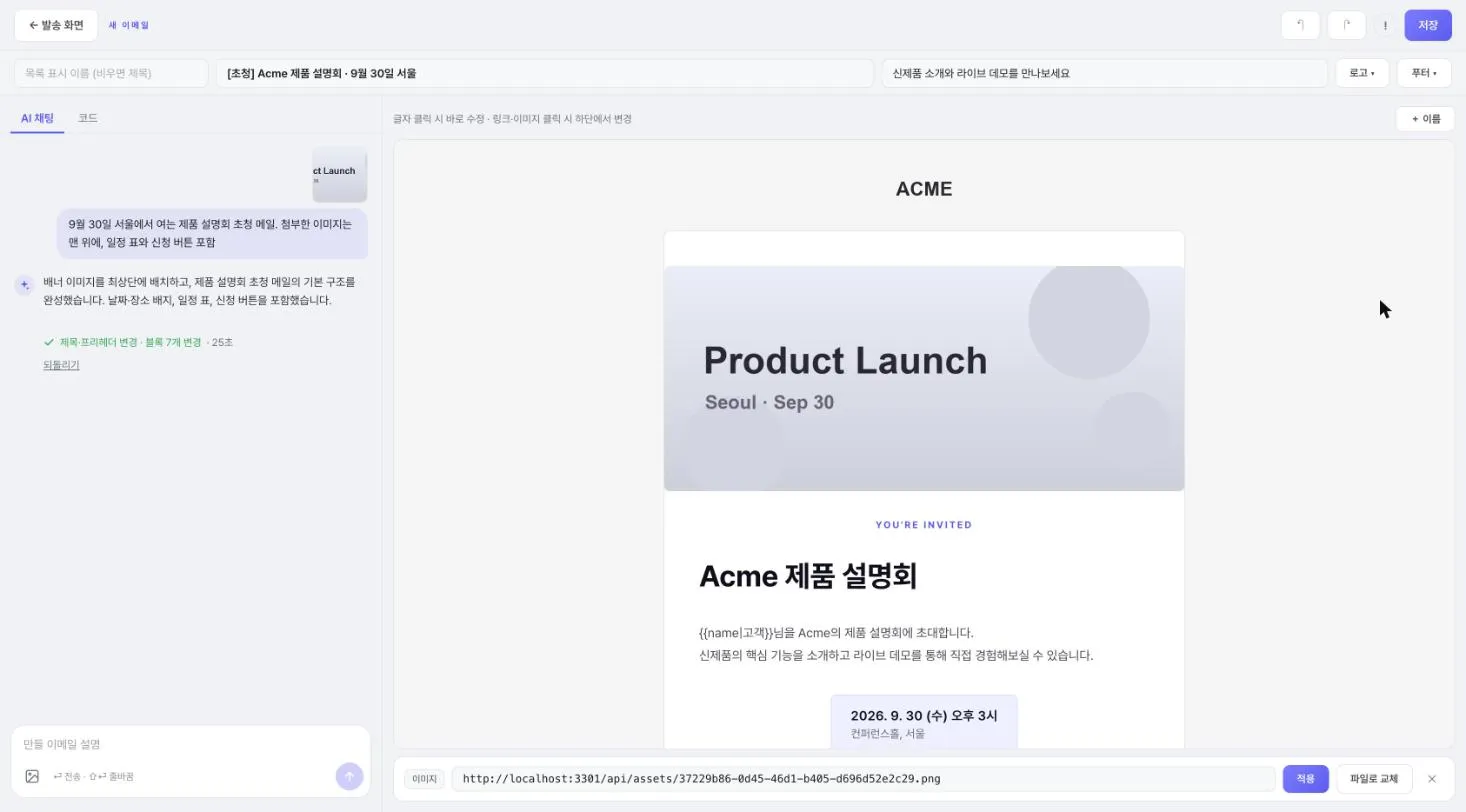
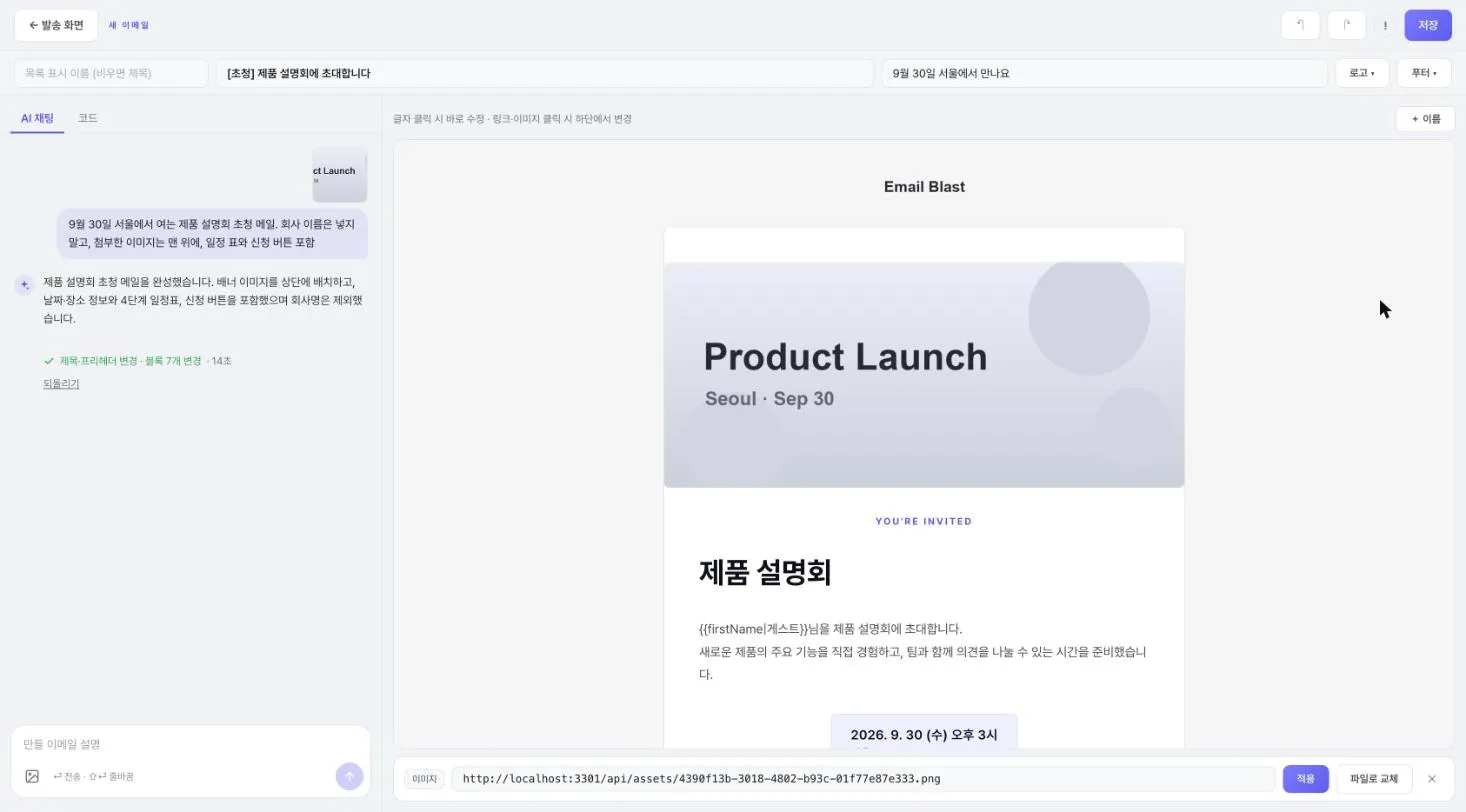
brand: the app is "Email Blast"; no company name in the tool UI
- Top bar, login title and page title are always "Email Blast"
- COMPANY → SENDER_NAME (name recipients see: From name, unsubscribe page, logo alt), default "Email Blast";
  the init wizard asks for that instead of a company name; operator display name defaults to "Operator"
- Remove the remaining "Acme" placeholders (template, wizard tests, docs, sample CSV)
- Remove the stale init-wizard design spec
- Guide text and 12 screenshots retaken with the new defaults

diff --git a/src/lib/guide-content.ts b/src/lib/guide-content.ts
@@ -8,12 +8,12 @@ export const GUIDE_SECTIONS: GuideSection[] = [
   {
     id: "s1",
     title: "처음 설정",
-    html: "<p>브랜드 이메일을 HTML 없이 만들어 여러 사람에게 한 번에 보내고, 결과를 확인하는 도구입니다. 이 문서는 앱 안 <span class=\"ui\">(!)</span> 버튼과 <code>/guide</code> 페이지의 원본입니다(<code>npm run guide</code>로 앱에 반영).</p><p>설치와 초기 설정은 관리자가 한 번만 합니다. 필요한 것은 세 가지입니다.</p><div class='tableWrap'><table><thead><tr><th>필요한 것</th><th>이유</th></tr></thead><tbody><tr><td>Resend 계정</td><td>모든 메일이 Resend로 나갑니다</td></tr><tr><td>내 도메인</td><td>Resend는 인증한 도메인 주소로만 보냅니다. <code>gmail.com</code> 같은 주소로는 보낼 수 없습니다</td></tr><tr><td>Node.js 18.17 이상</td><td>앱 실행</td></tr></tbody></table></div><p class=\"step\"><span class=\"n\">1</span><span>저장소를 받고 의존성을 설치합니다.</span></p><pre><code>npm install</code></pre><p class=\"step\"><span class=\"n\">2</span><span>설정 마법사를 실행합니다. 질문에 답하면 <code>src/brand.config.ts</code>(회사명·도메인·색 등 공개 설정)와 <code>.env.local</code>(비밀값)이 만들어집니다.</span></p><pre><code>npm run init</code></pre><p>마법사는 회사명, 로그인 방식(비밀번호 / Google), 화면 색(브라우저에서 고름), Claude API 키(선택), 발송 설정(발신 도메인·Resend 키·답장 주소·법인명·우편주소)을 묻습니다. 나중에 두 파일을 직접 고쳐도 됩니다.</p><p class=\"step\"><span class=\"n\">3</span><span>실행합니다.</span></p><pre><code>npm run dev      # 개발: http://localhost:3001\nnpm run build &amp;&amp; npm start   # 운영</code></pre><p>로그인 방식은 두 가지 중 하나입니다.</p><ul><li>비밀번호 — 비밀번호 하나로 들어갑니다. 들어온 사람은 모두 운영자 한 명으로 기록되며 관리자 권한을 가집니다.</li><li>Google — 지정한 Google Workspace 도메인 계정만 들어옵니다. 관리자는 <code>.env.local</code>의 <code>ADMIN_EMAILS</code> 또는 설정 화면에서 지정합니다.</li></ul><figure><a href=\"/guide/g-01-login.webp\" target=\"_blank\" rel=\"noreferrer\" title=\"원본 크기로 보기\"><img src=\"/guide/g-01-login.webp\" alt=\"\" loading=\"lazy\" /></a></figure><blockquote><span class=\"ui\">주의</span> — 예약 발송은 앱 서버 안에서 실행됩니다. <mark>서버가 꺼져 있던 시각의 예약은 실행되지 않습니다.</mark> 운영 서버는 항상 켜 두고, 재시작·점검 전에는 예약 발송을 확인합니다.</blockquote>",
+    html: "<p>Email Blast는 이메일을 HTML 없이 만들고, 여러 사람에게 한 번에 보내고, 결과를 확인하는 도구입니다. 이 문서는 앱 안 <span class=\"ui\">(!)</span> 버튼과 <code>/guide</code> 페이지의 원본입니다(<code>npm run guide</code>로 앱에 반영).</p><p>설치와 초기 설정은 관리자가 한 번만 합니다. 필요한 것은 세 가지입니다.</p><div class='tableWrap'><table><thead><tr><th>필요한 것</th><th>이유</th></tr></thead><tbody><tr><td>Resend 계정</td><td>모든 메일이 Resend로 나갑니다</td></tr><tr><td>내 도메인</td><td>Resend는 인증한 도메인 주소로만 보냅니다. <code>gmail.com</code> 같은 주소로는 보낼 수 없습니다</td></tr><tr><td>Node.js 18.17 이상</td><td>앱 실행</td></tr></tbody></table></div><p class=\"step\"><span class=\"n\">1</span><span>저장소를 받고 의존성을 설치합니다.</span></p><pre><code>npm install</code></pre><p class=\"step\"><span class=\"n\">2</span><span>설정 마법사를 실행합니다. 질문에 답하면 <code>src/brand.config.ts</code>(발신 이름·도메인·색 등 공개 설정)와 <code>.env.local</code>(비밀값)이 만들어집니다.</span></p><pre><code>npm run init</code></pre><p>마법사는 받는 사람에게 보일 발신 이름, 로그인 방식(비밀번호 / Google), 화면 색(브라우저에서 고름), Claude API 키(선택), 발송 설정(발신 도메인·Resend 키·답장 주소·법인명·우편주소)을 묻습니다. 나중에 두 파일을 직접 고쳐도 됩니다.</p><p class=\"step\"><span class=\"n\">3</span><span>실행합니다.</span></p><pre><code>npm run dev      # 개발: http://localhost:3001\nnpm run build &amp;&amp; npm start   # 운영</code></pre><p>로그인 방식은 두 가지 중 하나입니다.</p><ul><li>비밀번호 — 비밀번호 하나로 들어갑니다. 들어온 사람은 모두 운영자 한 명으로 기록되며 관리자 권한을 가집니다.</li><li>Google — 지정한 Google Workspace 도메인 계정만 들어옵니다. 관리자는 <code>.env.local</code>의 <code>ADMIN_EMAILS</code> 또는 설정 화면에서 지정합니다.</li></ul><figure><a href=\"/guide/g-01-login.webp\" target=\"_blank\" rel=\"noreferrer\" title=\"원본 크기로 보기\"><img src=\"/guide/g-01-login.webp\" alt=\"\" loading=\"lazy\" /></a></figure><blockquote><span class=\"ui\">주의</span> — 예약 발송은 앱 서버 안에서 실행됩니다. <mark>서버가 꺼져 있던 시각의 예약은 실행되지 않습니다.</mark> 운영 서버는 항상 켜 두고, 재시작·점검 전에는 예약 발송을 확인합니다.</blockquote>",
   },
   {
     id: "s2",
     title: "Resend 연결",
-    html: "<p class=\"step\"><span class=\"n\">1</span><span>resend.com에 가입하고 <span class=\"ui\">API Keys</span> → <span class=\"ui\">Create API Key</span>에서 Full access 키를 만듭니다.</span></p><p class=\"step\"><span class=\"n\">2</span><span><span class=\"ui\">Domains</span> → <span class=\"ui\">Add Domain</span>에서 발신 도메인을 추가합니다. <code>send.회사도메인</code> 같은 하위 도메인을 권장합니다. 화면에 나온 DNS 레코드(SPF·DKIM)를 도메인 DNS에 넣고 상태가 Verified가 될 때까지 기다립니다.</span></p><p class=\"step\"><span class=\"n\">3</span><span><code>.env.local</code>에 키를 넣고 앱을 다시 시작합니다.</span></p><pre><code>RESEND_EMAIL_TRACKING_API_KEY=re_xxxxxxxx</code></pre><p class=\"step\"><span class=\"n\">4</span><span>(선택) 열람·클릭·반송을 기록하려면 Resend <span class=\"ui\">Webhooks</span>에 <code>https://앱주소/api/webhooks/resend</code>를 등록하고, 서명 비밀값을 <code>.env.local</code>의 <code>RESEND_WEBHOOK_SECRET</code>에 넣습니다. 반송·스팸 신고 주소는 자동으로 수신거부 목록에 들어갑니다.</span></p><p><mark>도메인 인증 없이 보내면 대부분 스팸함으로 가거나 거부됩니다.</mark></p>",
+    html: "<p class=\"step\"><span class=\"n\">1</span><span>resend.com에 가입하고 <span class=\"ui\">API Keys</span> → <span class=\"ui\">Create API Key</span>에서 Full access 키를 만듭니다.</span></p><p class=\"step\"><span class=\"n\">2</span><span><span class=\"ui\">Domains</span> → <span class=\"ui\">Add Domain</span>에서 발신 도메인을 추가합니다. <code>send.내도메인.com</code> 같은 하위 도메인을 권장합니다. 화면에 나온 DNS 레코드(SPF·DKIM)를 도메인 DNS에 넣고 상태가 Verified가 될 때까지 기다립니다.</span></p><p class=\"step\"><span class=\"n\">3</span><span><code>.env.local</code>에 키를 넣고 앱을 다시 시작합니다.</span></p><pre><code>RESEND_EMAIL_TRACKING_API_KEY=re_xxxxxxxx</code></pre><p class=\"step\"><span class=\"n\">4</span><span>(선택) 열람·클릭·반송을 기록하려면 Resend <span class=\"ui\">Webhooks</span>에 <code>https://앱주소/api/webhooks/resend</code>를 등록하고, 서명 비밀값을 <code>.env.local</code>의 <code>RESEND_WEBHOOK_SECRET</code>에 넣습니다. 반송·스팸 신고 주소는 자동으로 수신거부 목록에 들어갑니다.</span></p><p><mark>도메인 인증 없이 보내면 대부분 스팸함으로 가거나 거부됩니다.</mark></p>",
   },
   {
     id: "s3",
@@ -48,7 +48,7 @@ export const GUIDE_SECTIONS: GuideSection[] = [
   {
     id: "s9",
     title: "발신 옵션",
-    html: "<ul><li><span class=\"ui\">공용 발신자로</span> — 등록된 회사 주소로 보냅니다. <span class=\"ui\">변경</span>으로 고르고, 추가·삭제는 관리자가 설정에서 합니다.</li><li><span class=\"ui\">내 계정으로</span> — 내 회사 주소로 보냅니다(Google 로그인 방식에서만).</li><li><span class=\"ui\">답장 받을 주소</span> — 비우면 발신 주소로 답장이 갑니다.</li><li><span class=\"ui\">광고성 메일</span> — 체크하면 제목 앞에 <code>(광고)</code>가 붙고, 본문에 수신거부 링크가 없으면 맨 아래에 수신거부 문구가 자동으로 붙습니다.</li></ul>",
+    html: "<ul><li><span class=\"ui\">공용 발신자로</span> — 등록된 공용 발신 주소로 보냅니다. <span class=\"ui\">변경</span>으로 고르고, 추가·삭제는 관리자가 설정에서 합니다.</li><li><span class=\"ui\">내 계정으로</span> — 내 로그인 주소로 보냅니다(Google 로그인 방식에서만).</li><li><span class=\"ui\">답장 받을 주소</span> — 비우면 발신 주소로 답장이 갑니다.</li><li><span class=\"ui\">광고성 메일</span> — 체크하면 제목 앞에 <code>(광고)</code>가 붙고, 본문에 수신거부 링크가 없으면 맨 아래에 수신거부 문구가 자동으로 붙습니다.</li></ul>",
   },
   {
     id: "s10",

diff --git a/scripts/init/brand.config.template.ts b/scripts/init/brand.config.template.ts
@@ -17,8 +17,8 @@
  */
 
 // ── Brand baseline values (change in one place; propagates to copy and senders) ── @init:identity
-const COMPANY      = "Acme";                // @init  company/service display name
-const LEGAL_NAME   = "Acme Inc.";           // @init  legal sender name (compliance footer)
+const SENDER_NAME  = "Email Blast";         // @init  name recipients see (From display name, unsubscribe page, logo alt)
+const LEGAL_NAME   = "Email Blast";         // @init  legal sender name (compliance footer)
 // Domains are fixed as pure constants (client renders → env dependence causes hydration mismatch).
 const LOGIN_DOMAIN  = "example.com";        // @init  Workspace domain allowed for Google login (for google mode)
 const SENDER_DOMAIN = "send.example.com";   // @init  allowed sending (From) domain (★core of send blocking)
@@ -30,7 +30,7 @@ const ASSET_BASE = "https://cdn.example.com/assets";
 // ── Auth & operator identity ────────────────────────────────────────────────
 const AUTH_MODE              = "password";            // @init  ("password" | "google")
 const OPERATOR_EMAIL         = "you@example.com";    // @init  password-mode admin identity
-const OPERATOR_NAME          = "Acme";               // @init  operator display name
+const OPERATOR_NAME          = "Operator";           // @init  operator display name
 const REPLY_TO_DEFAULT       = "inquiry@example.com"; // @init
 const POSTAL_ADDRESS_DEFAULT = "";                   // @init  CAN-SPAM postal address
 const CONTACT_EMAIL_DEFAULT  = "inquiry@example.com"; // @init
@@ -63,10 +63,10 @@ export type BrandLogo = { id: string; label: string; url: string; width: number 
 export const brand = {
   // ── Identity ────────────────────────────────────────────────────────────
   identity: {
-    companyName: COMPANY,
+    companyName: SENDER_NAME, // sender organization as recipients see it (the app itself is "Email Blast")
     legalName: LEGAL_NAME,
     appName: "Email Blast",
-    appTitle: `${COMPANY} Email Blast`,
+    appTitle: "Email Blast",
     appDescription: "Email blast tool",
     websiteUrl: WEBSITE_URL,
     /** App public base URL (used in the send loop, e.g. unsubscribe links). env(APP_BASE_URL) override. */
@@ -94,7 +94,7 @@ export const brand = {
     /** Built-in sender (always present, cannot be deleted). Operator additions live in data/from.json.
      *  ⚠ At least 1 required (FROM_DEFAULT references [0]). Keep it matching senderDomain. */
     builtinFrom: [
-      { value: `${COMPANY} <hello@${SENDER_DOMAIN}>`, label: COMPANY, builtin: true },
+      { value: `${SENDER_NAME} <hello@${SENDER_DOMAIN}>`, label: SENDER_NAME, builtin: true },
     ] as BrandFromOption[],
     /** Default Reply-To. This value is allowed even outside senderDomain (e.g. gmail) (resolveReplyTo). */
     replyToDefault: REPLY_TO_DEFAULT,
@@ -131,9 +131,9 @@ export const brand = {
     },
     mono: "Menlo,'SF Mono',Consolas,'Liberation Mono',monospace",
     /** Header (top) default logo — used when spec.logo is unset. Replace with your own logo's public URL. */
-    headerLogo: { url: `${ASSET_BASE}/header-logo.png`, alt: COMPANY, width: 130 },
+    headerLogo: { url: `${ASSET_BASE}/header-logo.png`, alt: SENDER_NAME, width: 130 },
     /** Footer (bottom) logo + click link. */
-    footerLogo: { url: `${ASSET_BASE}/footer-logo.png`, alt: COMPANY, link: WEBSITE_URL, width: 100, height: 16 },
+    footerLogo: { url: `${ASSET_BASE}/footer-logo.png`, alt: SENDER_NAME, link: WEBSITE_URL, width: 100, height: 16 },
     /** Footer social icon images. */
     socialIcons: {
       x: `${ASSET_BASE}/x-logo.png`,
@@ -170,12 +170,12 @@ export const brand = {
 
   // ── Header logo registry (built-in list in lib/logos.ts) ──────────────────────
   logos: [
-    { id: "primary", label: COMPANY, url: `${ASSET_BASE}/header-logo.png`, width: 130 },
+    { id: "primary", label: SENDER_NAME, url: `${ASSET_BASE}/header-logo.png`, width: 130 },
   ] as BrandLogo[],
 
   // ── Template defaults ───────────────────────────────────────────────────────
   templates: {
-    defaultSubject: `[알림] ${COMPANY}`,
+    defaultSubject: "[알림]",
   },
 
   // ── Scheduled sends ─────────────────────────────────────────────────────────
@@ -196,17 +196,17 @@ export const brand = {
   // ── App UI ──────────────────────────────────────────────────────────────
   ui: {
     /** Top header wordmark. */
-    headerBrand: COMPANY,
+    headerBrand: "Email Blast",
     /** Wordmark at the bottom of the public unsubscribe/resubscribe page. */
-    footerWordmark: COMPANY,
+    footerWordmark: SENDER_NAME,
     /** App console (web UI) accent color — app/layout.tsx injects it as a :root CSS variable.
      *  Decoupled from email colors: APP_ACCENT* drives the UI; EMAIL_* drives email bodies. */
     appAccent: APP_ACCENT,             // → --brand / --ring
     appAccentDeep: APP_ACCENT_DEEP,    // → --brand-deep
     appAccentBright: APP_ACCENT_BRIGHT,// → --brand-mint (lighter end of the CTA gradient)
     login: {
-      title: `${COMPANY} Email Blast`,
-      subtitle: `${COMPANY} 계정으로 로그인하세요.`,
+      title: "Email Blast",
+      subtitle: "Google 계정으로 로그인하세요.",
       /** Login screen copy for password mode. */
       passwordSubtitle: `접근하려면 비밀번호를 입력하세요.`,
       domainNotice: `@${LOGIN_DOMAIN} 계정만 접근할 수 있습니다.`,

diff --git a/src/components/AdminSettings.tsx b/src/components/AdminSettings.tsx
@@ -274,7 +274,7 @@ export default function AdminSettings({
                 <div className="grid grid-cols-2 gap-2">
                   <div>
                     <label className="block text-[10px] text-muted mb-0.5">이름 (수신자가 확인 가능)</label>
-                    <input className="input py-1.5 text-[12px]" value={displayName} onChange={(e) => setDisplayName(e.target.value)} placeholder="예: Acme Events" />
+                    <input className="input py-1.5 text-[12px]" value={displayName} onChange={(e) => setDisplayName(e.target.value)} placeholder="예: 이벤트팀" />
                   </div>
                   <div>
                     <label className="block text-[10px] text-muted mb-0.5">이메일 주소</label>

diff --git a/src/components/RecipientInput.tsx b/src/components/RecipientInput.tsx
@@ -8,7 +8,7 @@ const DEFAULT_PLACEHOLDER =
   "예시)\n홍길동 hong@a.com\n홍길동, hong@a.com\n홍길동|hong@a.com\n홍길동 <hong@a.com>";
 
 function downloadSampleCsv() {
-  const csv = "email,name,company,title\nhong@example.com,홍길동,Acme,매니저\njane@example.com,Jane Doe,Acme,Director\n";
+  const csv = "email,name,company,title\nhong@example.com,홍길동,Example Co,매니저\njane@example.com,Jane Doe,Example Co,Director\n";
   const blob = new Blob(["" + csv], { type: "text/csv;charset=utf-8" }); // BOM: Excel Korean compatibility
   const u = URL.createObjectURL(blob);
   const a = document.createElement("a");

diff --git a/src/app/page.tsx b/src/app/page.tsx
@@ -79,8 +79,6 @@ export default function HomePage() {
             aria-hidden
           />
           <span className="font-extrabold tracking-tight text-brand text-[15px]">{brand.ui.headerBrand}</span>
-          <span className="w-px h-4 bg-border shrink-0" aria-hidden />
-          <span className="text-muted text-sm font-medium truncate">{brand.identity.appName}</span>
         </div>
         <div className="flex items-center gap-2 shrink-0">
           <button onClick={() => openSettings("history")} className="btn-ghost text-[13px] py-1.5">발송 이력</button>

diff --git a/src/lib/config.ts b/src/lib/config.ts
@@ -9,7 +9,7 @@
 import { brand } from "../brand.config";
 
 export type FromOption = {
-  /** The actual RFC 5322 from value (e.g., "Acme <hello@send.example.com>") */
+  /** The actual RFC 5322 from value (e.g., "Email Blast <hello@send.example.com>") */
   value: string;
   /** UI display name */
   label: string;

diff --git a/docs/brand-config.md b/docs/brand-config.md
@@ -21,8 +21,8 @@ brand.config.ts   ← public brand identity, design, auth mode   (safe to expose
 Changing these constants propagates across UI copy, emails, and senders.
 
 ```ts
-const COMPANY      = "Acme";                          // display name (header, titles, footer)
-const LEGAL_NAME   = "Acme Inc.";                     // legal sender name (compliance footer)
+const SENDER_NAME  = "Email Blast";                   // name recipients see (From name, unsubscribe page, logo alt). The app itself is always "Email Blast".
+const LEGAL_NAME   = "Email Blast";                   // legal sender name (compliance footer)
 const LOGIN_DOMAIN = "example.com";                   // allowed Google-login domain (google mode only)
 const SENDER_DOMAIN= "send.example.com";              // allowed sending (From) domain — must match Resend
 const WEBSITE_URL  = "https://www.example.com";       // footer logo link
@@ -58,7 +58,7 @@ One line picks the login method. Both implementations ship in the code.
 auth: {
   mode: "password",                 // "password" | "google"
   operatorEmail: "you@example.com", // password mode: single operator = automatic admin
-  operatorName: "Acme",             // display name for the operator's sender
+  operatorName: "Operator",         // password mode: display name of the single operator
   loginDomain: LOGIN_DOMAIN,        // google mode: allowed Workspace domain
   senderDomain: SENDER_DOMAIN,      // allowed From domain
 }
@@ -76,7 +76,7 @@ auth: {
 ```ts
 senders: {
   builtinFrom: [
-    { value: `${COMPANY} <hello@${SENDER_DOMAIN}>`, label: COMPANY, builtin: true },
+    { value: `${SENDER_NAME} <hello@${SENDER_DOMAIN}>`, label: SENDER_NAME, builtin: true },
   ],
   replyToDefault: "inquiry@example.com", // may be outside senderDomain (e.g. your Gmail)
   orgName:        LEGAL_NAME,            // compliance footer (env SENDER_ORG_NAME overrides)

diff --git a/docs/white-label.md b/docs/white-label.md
@@ -56,8 +56,8 @@ Fill these into the project root `.env.local`. Only the names are listed here; p
 Change just the **derived base values** at the top of the file and most things propagate automatically:
 
 ```ts
-const COMPANY = "Acme";                                // → company name in header, login, footer, presets
-const LEGAL_NAME = "Acme Inc.";                        // → compliance footer sender name
+const SENDER_NAME = "Email Blast";                     // → name recipients see: From name, unsubscribe page, logo alt
+const LEGAL_NAME = "Email Blast";                      // → compliance footer sender name
 const LOGIN_DOMAIN = "example.com";                    // → allowed Google Workspace login domain (google mode)
 const SENDER_DOMAIN = "send.example.com";              // → allowed From/Reply-To domain (★key to send blocking)
 const WEBSITE_URL = "https://www.example.com";         // → email footer logo link
@@ -245,7 +245,7 @@ and never collides with upstream updates.
 
 - [ ] `npm run init` — generates `brand.config.ts` + `.env.local`
 - [ ] Fill in all your keys in `.env.local` (section 1)
-- [ ] Replace the base values at the top of `brand.config.ts` (COMPANY, 2 domains, website, ASSET_BASE) and design tokens
+- [ ] Replace the base values at the top of `brand.config.ts` (SENDER_NAME, 2 domains, website, ASSET_BASE) and design tokens
 - [ ] Choose `auth.mode` (`"password"` or `"google"`) and set the matching env/config
 - [ ] Set `senders.builtinFrom` / `replyToDefault` to your sending address
 - [ ] (If `assets.delivery: "hosted"`) upload logos/social icons and update the `email.*` URLs (section 3)
